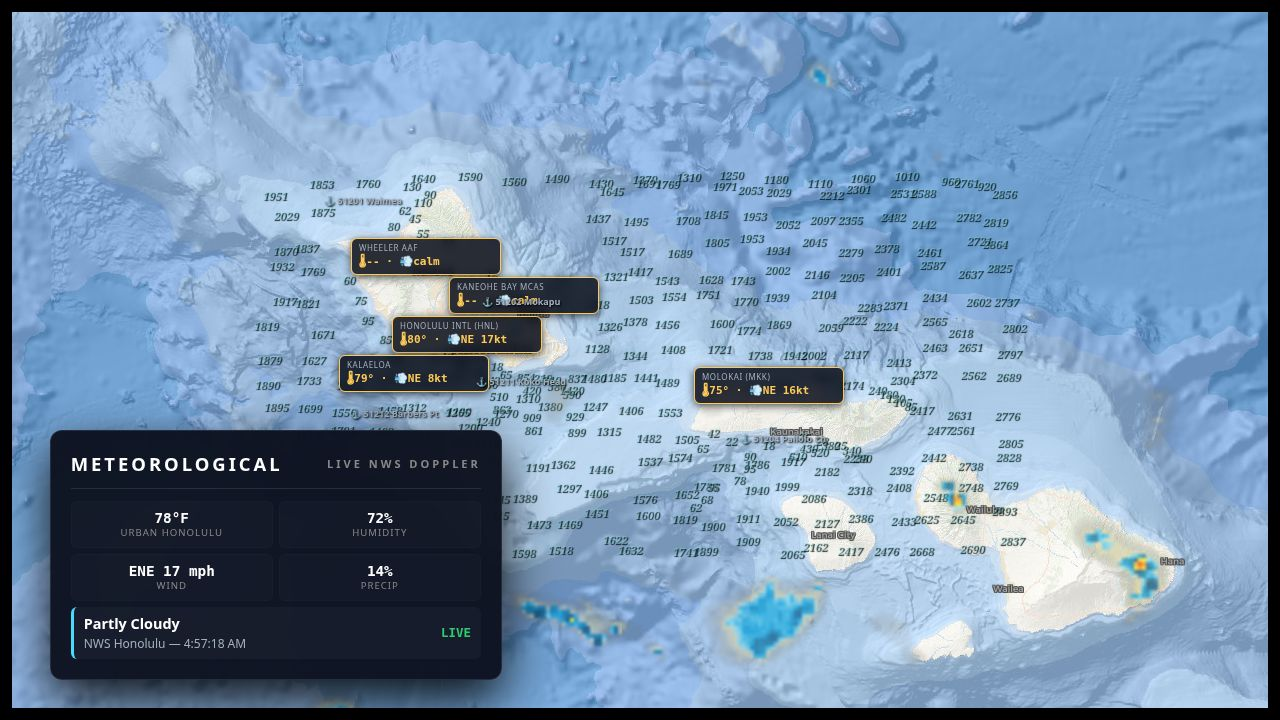
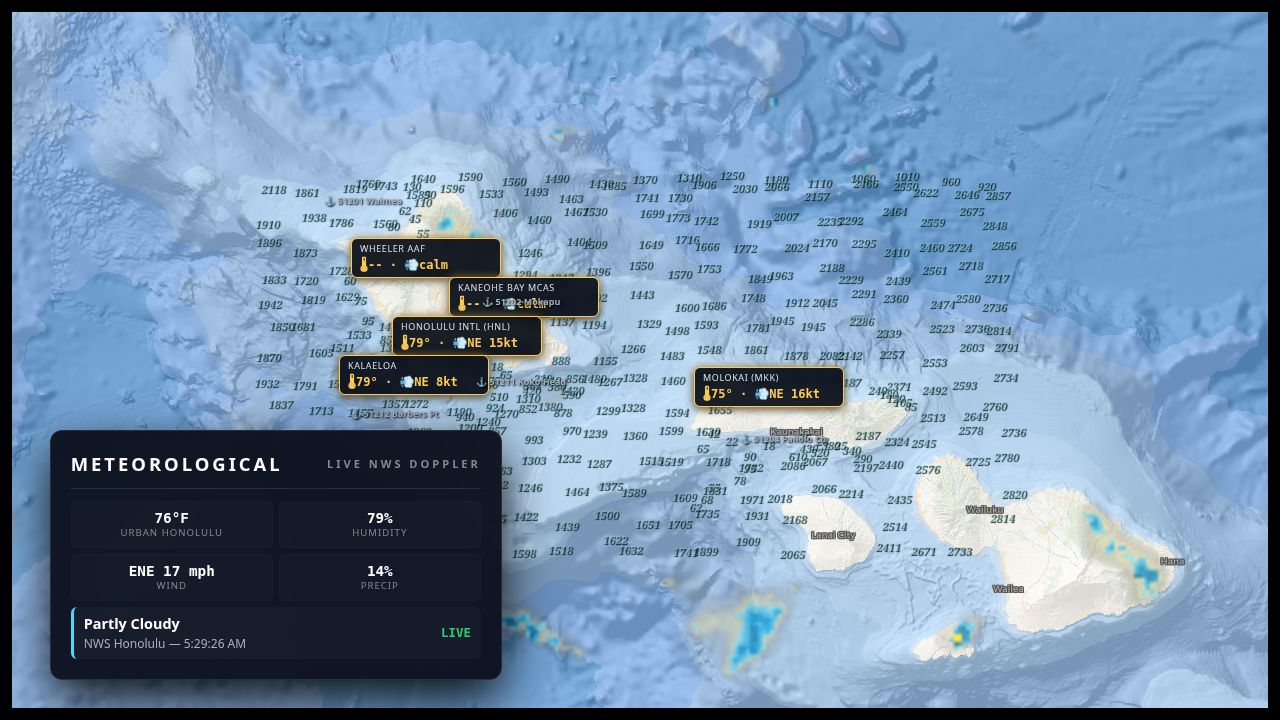
Improve map data visualization for clarity and accuracy
Fixes depth soundings appearing on land, makes wind and current arrows more visible, enhances weather station markers, and resolves an issue where ships were not populating due to incorrect WebSocket frame handling.

Replit-Commit-Author: Agent
Replit-Commit-Session-Id: f9719a53-92db-44db-af8a-7592ae6b1dda
Replit-Commit-Checkpoint-Type: full_checkpoint
Replit-Commit-Event-Id: e611b359-8391-4daa-b97d-409d6c020355
Replit-Commit-Screenshot-Url: https://storage.googleapis.com/screenshot-production-us-central1/1364c86a-218f-4e31-b7d5-f94bad1c6c1c/f9719a53-92db-44db-af8a-7592ae6b1dda/wjCr8nR
Replit-Helium-Checkpoint-Created: true

diff --git a/artifacts/honolulu/public/static/script.js b/artifacts/honolulu/public/static/script.js
@@ -122,11 +122,40 @@ function makeSeededRng(seed) {
 }
 const rng = makeSeededRng(0xABCDEF42);
 
-// --- LAND MASK — only skip depth scatter over actual island terrain ---
+// --- LAND MASK — polygon outlines per island so depth soundings never fall on
+// land. Rectangles missed the irregular north coasts and ignored Lanai / West
+// Maui entirely (depths landed on those islands). Outlines are rough and may
+// over-approximate inland slightly — harmless, since only the scatter is masked;
+// curated shallow-bay soundings are added unconditionally and always remain. ---
+const ISLAND_POLYS = [
+    // Oahu
+    [[21.575,-158.28],[21.59,-158.10],[21.68,-158.04],[21.71,-157.99],
+     [21.65,-157.92],[21.45,-157.79],[21.31,-157.65],[21.27,-157.69],
+     [21.26,-157.80],[21.30,-158.00],[21.30,-158.11],[21.44,-158.19]],
+    // Molokai
+    [[21.21,-157.26],[21.21,-157.00],[21.17,-156.71],[21.12,-156.74],
+     [21.06,-157.00],[21.08,-157.22]],
+    // Lanai
+    [[20.92,-156.92],[20.90,-156.82],[20.82,-156.80],[20.74,-156.87],
+     [20.74,-156.95],[20.82,-157.06],[20.90,-157.02]],
+    // West Maui (only the western lobe falls within the map bounds)
+    [[21.03,-156.61],[20.98,-156.48],[20.80,-156.45],[20.80,-156.55],
+     [20.87,-156.69],[20.94,-156.70],[20.99,-156.66]],
+];
+function pointInPoly(lat, lng, poly) {
+    let inside = false;
+    for (let i = 0, j = poly.length - 1; i < poly.length; j = i++) {
+        const yi = poly[i][0], xi = poly[i][1];
+        const yj = poly[j][0], xj = poly[j][1];
+        const intersect = ((yi > lat) !== (yj > lat)) &&
+            (lng < (xj - xi) * (lat - yi) / (yj - yi) + xi);
+        if (intersect) inside = !inside;
+    }
+    return inside;
+}
 function isOnLand(lat, lng) {
-    const oahu    = (lat > 21.28 && lat < 21.72 && lng > -158.27 && lng < -157.63);
-    const molokai = (lat > 21.06 && lat < 21.21 && lng > -157.31 && lng < -156.68);
-    return oahu || molokai;
+    for (const poly of ISLAND_POLYS) if (pointInPoly(lat, lng, poly)) return true;
+    return false;
 }
 
 // =====================================================================
@@ -657,7 +686,7 @@ async function fetchWind() {
             // coastal towns) — do NOT land-filter them or nearly all vanish.
             const html = `${pt.arrow}<br><span style="font-size:10px;color:#00ffcc;">${pt.speedKt}</span>`;
             L.marker([pt.lat, pt.lng], { pane: 'windPane',
-                icon: L.divIcon({ className: 'vector-arrow', html, iconSize: [30, 30] })
+                icon: L.divIcon({ className: 'vector-arrow', html, iconSize: [40, 42] })
             }).addTo(windLayer);
         });
     } catch(e) { console.warn('Wind fetch:', e); }
@@ -670,7 +699,7 @@ function renderCurrents(points) {
         if (pt.speedKt == null) return;
         const html = `${pt.arrow}<br><span style="font-size:9px;color:#48dbfb;">${pt.speedKt}kt</span>`;
         L.marker([pt.lat, pt.lng], { pane: 'currentPane',
-            icon: L.divIcon({ className: 'current-arrow', html, iconSize: [34, 34] })
+            icon: L.divIcon({ className: 'current-arrow', html, iconSize: [44, 46] })
         }).addTo(currentLayer);
     });
 }
@@ -1063,14 +1092,18 @@ const uiStates = [
             // every Big-Island quake; relax both so the markers actually frame in.
             map.setMinZoom(7);
             map.setMaxBounds(null);
+            // Depth soundings are meaningless at this scale and just clutter the
+            // ocean — hide the (otherwise permanent) base soundings on hazard.
+            if (map.hasLayer(depthLayer)) map.removeLayer(depthLayer);
             map.flyToBounds([[18.7, -156.0], [21.9, -158.3]], {
                 animate: true, duration: 1.8, padding: [30, 30]
             });
         },
         onExit() {
-            // Restore the Oahu-only lock before returning to the close-up views.
+            // Restore the Oahu-only lock + base soundings before returning.
             map.setMaxBounds(bounds);
             map.setMinZoom(9);
+            if (!map.hasLayer(depthLayer)) map.addLayer(depthLayer);
             map.flyTo([21.265, -157.785], 10, { animate: true, duration: 1.5 });
         },
         renderStatic() {

diff --git a/artifacts/honolulu/public/static/style.css b/artifacts/honolulu/public/static/style.css
@@ -204,27 +204,31 @@ body, html {
 }
 
 .vector-arrow {
-    background: transparent; 
-    border: none; 
+    background: transparent;
+    border: none;
     box-shadow: none;
-    color: #ffffff; 
-    font-family: monospace; 
-    font-size: 13px; 
-    text-align: center; 
+    color: #feca57;               /* gold — distinct from cyan currents */
+    font-family: monospace;
+    font-size: 26px;              /* was 13px — too small to read on tiles */
+    line-height: 1;
+    text-align: center;
     font-weight: bold;
-    text-shadow: 2px 2px 2px #000, -1px -1px 0 #000, 1px -1px 0 #000;
+    -webkit-text-stroke: 0.6px #000;
+    text-shadow: 0 0 3px #000, 0 0 6px #000, 1px 1px 2px #000, -1px -1px 2px #000;
 }
 
 .current-arrow {
-    background: transparent; 
-    border: none; 
+    background: transparent;
+    border: none;
     box-shadow: none;
-    color: #48dbfb; 
-    font-family: monospace; 
-    font-size: 16px; 
-    text-align: center; 
+    color: #2bd9ff;               /* brighter cyan */
+    font-family: monospace;
+    font-size: 28px;             /* was 16px */
+    line-height: 1;
+    text-align: center;
     font-weight: bold;
-    text-shadow: 2px 2px 2px #000;
+    -webkit-text-stroke: 0.6px #000;
+    text-shadow: 0 0 3px #000, 0 0 6px #000, 1px 1px 2px #000, -1px -1px 2px #000;
 }
 
 /* Glass HUD Overlay Clusters */
@@ -492,21 +496,21 @@ body, html {
 
 /* ── LAND WEATHER STATIONS (NWS) ──────────────────────────────────── */
 .wx-box {
-    background: rgba(10, 14, 26, 0.86);
-    border: 1px solid #feca57;
+    background: rgba(8, 12, 22, 0.92);
+    border: 1.5px solid #feca57;
     border-radius: 6px;
-    padding: 3px 7px;
+    padding: 3px 8px;
     backdrop-filter: blur(4px);
-    box-shadow: 0 2px 8px rgba(0,0,0,0.7);
+    box-shadow: 0 0 9px rgba(254, 202, 87, 0.5), 0 2px 8px rgba(0,0,0,0.85);
 }
 .wx-name {
-    font-size: 8px;
-    color: #a4b0be;
+    font-size: 9px;
+    color: #d7e0ea;
     text-transform: uppercase;
     letter-spacing: 0.6px;
 }
 .wx-val {
-    font-size: 11px;
+    font-size: 12px;
     font-weight: bold;
     color: #feca57;
     font-family: monospace;

diff --git a/artifacts/api-server/src/routes/ships.ts b/artifacts/api-server/src/routes/ships.ts
@@ -55,10 +55,27 @@ function connect() {
     );
   });
 
-  ws.addEventListener("message", (ev: { data: unknown }) => {
+  ws.addEventListener("message", async (ev: { data: unknown }) => {
     try {
-      const raw = typeof ev.data === "string" ? ev.data : String(ev.data);
+      // Node's native WebSocket delivers AISStream frames as binary Blobs, not
+      // strings. The old `String(ev.data)` produced "[object Blob]", so every
+      // frame failed JSON.parse and was silently dropped — the socket looked
+      // "connected" but no vessel ever landed. Decode the binary payload first.
+      const d = ev.data;
+      let raw: string;
+      if (typeof d === "string") raw = d;
+      else if (d instanceof Blob) raw = await d.text();
+      else if (d instanceof ArrayBuffer) raw = Buffer.from(d).toString("utf8");
+      else if (ArrayBuffer.isView(d)) raw = Buffer.from(d.buffer, d.byteOffset, d.byteLength).toString("utf8");
+      else raw = String(d);
       const msg = JSON.parse(raw);
+      // AISStream reports subscription problems as an error frame rather than
+      // closing the socket — surface it so a bad bbox/key doesn't look like
+      // mere data sparsity.
+      if (msg.error ?? msg.Error) {
+        logger.warn({ aisError: msg.error ?? msg.Error }, "AISStream subscription error");
+        return;
+      }
       const meta = msg.MetaData ?? {};
       const mmsi: number | undefined = meta.MMSI;
       if (mmsi == null) return;

diff --git a/.agents/memory/node-websocket-blob-frames.md b/.agents/memory/node-websocket-blob-frames.md
@@ -1,0 +1,36 @@
+---
+name: Node native WebSocket delivers binary frames as Blob
+description: Why a "connected" WebSocket client can silently receive zero usable messages, and how to decode frames correctly.
+---
+
+# Node native WebSocket (undici) — binary frames arrive as Blob, not string
+
+When using the runtime global `WebSocket` (Node 22+/undici) as a client, the
+`message` event's `ev.data` is a **Blob** for binary frames (and `ArrayBuffer`
+/ TypedArray in some cases), NOT a string. Many servers (e.g. AISStream) send
+their JSON payloads as binary frames.
+
+**Symptom (the trap):** a handler that does `String(ev.data)` produces the
+literal `"[object Blob]"`, `JSON.parse` throws, and if the throw is swallowed in
+a `catch {}` you get a client that connects fine (`open` fires, no errors) but
+processes **zero** messages. It looks exactly like upstream data sparsity.
+
+**Why:** browser-style `String(blob)` does not decode the bytes; Blob decoding
+is async (`await blob.text()`).
+
+**How to apply — decode before parsing:**
+```js
+const d = ev.data;
+let raw;
+if (typeof d === "string") raw = d;
+else if (d instanceof Blob) raw = await d.text();          // handler must be async
+else if (d instanceof ArrayBuffer) raw = Buffer.from(d).toString("utf8");
+else if (ArrayBuffer.isView(d)) raw = Buffer.from(d.buffer, d.byteOffset, d.byteLength).toString("utf8");
+else raw = String(d);
+const msg = JSON.parse(raw);
+```
+
+**Diagnostic trick:** if a WebSocket source returns "connected but empty",
+write a tiny standalone node script that subscribes to a broad/global filter and
+logs `typeof ev.data` + `ev.data.constructor.name`. Seeing `object / Blob`
+confirms this bug rather than sparsity.

diff --git a/.agents/memory/MEMORY.md b/.agents/memory/MEMORY.md
@@ -1,1 +1,1 @@
-- [Tile placeholder gray boxes](tile-placeholders.md) — external tile servers return opaque "Zoom Level Not Supported" PNGs (HTTP 200) above their max native zoom; detect by md5, fix with Leaflet maxNativeZoom.
+- [Node WebSocket Blob frames](node-websocket-blob-frames.md) — native Node WebSocket delivers binary frames as Blob; `String(ev.data)` silently breaks JSON.parse → "connected but zero messages". Decode with `await blob.text()`.